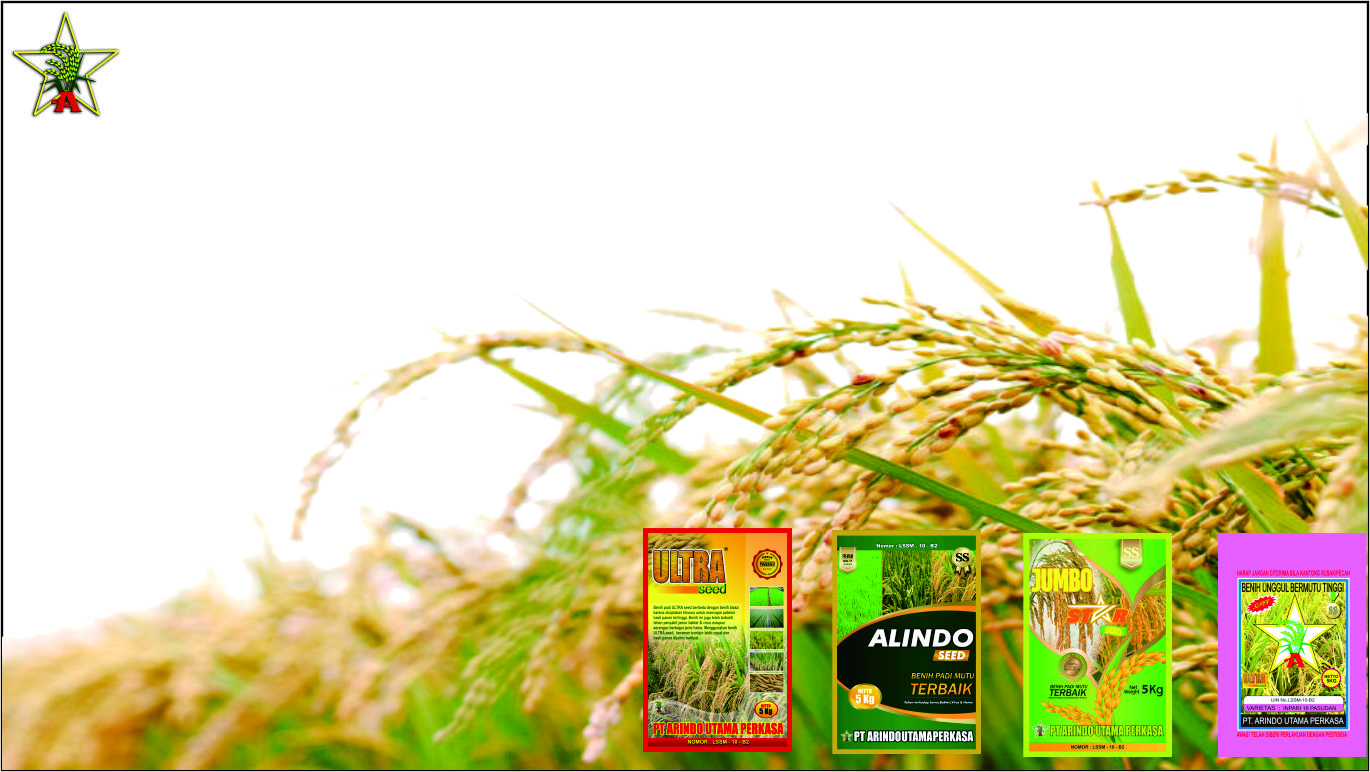
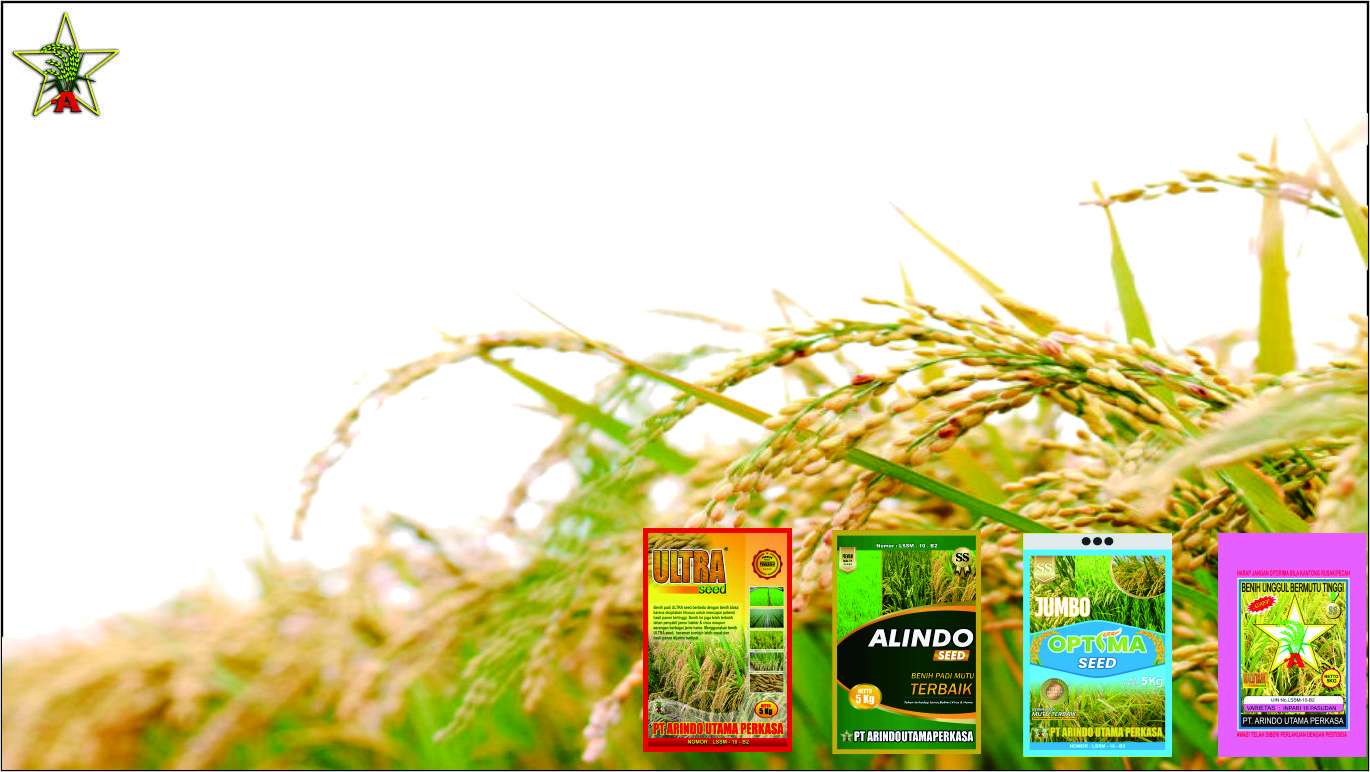
fetch:revisi gambar

Changed region(s): [[0.7358, 0.6839, 0.8584, 0.9948]]

diff --git a/resources/views/users/produk.blade.php b/resources/views/users/produk.blade.php
@@ -26,30 +26,32 @@
                                         <img class="flex-shrink-0 img-fluid border rounded" src="../../assets/img/produk-1.jpg" alt="" style="width: 80px; height: auto;">
                                         <div class="text-start ps-4">
                                             <h5 class="mb-3">BENIH BINTANG</h5>
-                                        <small class="text-truncate"><i class="far fa-calendar-alt text-primary me-2"></i>Tanggal Awal Produksi: 01 Jan, 2045</small>
+                                        <small class="text-truncate"><i class="fas fa-quote-left text-primary me-2"></i>Benih padi dengan kualitas terbaik dan teruji lolos uji sertifikasi dan ISO 9001 – 2008.</small>
+                                        <small class="text-truncate">Diawasi langsung tanpa adanya orang ketiga. Varietas Ciherang, IR-64, Inpari 30, Memberamo, Situ Bagendit , Inpari Sidenuk dan Cibago. <i class="fas fa-quote-right text-primary me-2"></i></small>
+                                        
                                         </div>
                                     </div>
-                                    <div class="col-sm-12 col-md-4 d-flex flex-column align-items-start align-items-md-end justify-content-center">
+                                    {{-- <div class="col-sm-12 col-md-4 d-flex flex-column align-items-start align-items-md-end justify-content-center">
                                         <div class="d-flex mb-3">
                                             <a class="btn btn-primary" href="">Detail Benih</a>
                                         </div>
-                                    </div>
+                                    </div> --}}
                                 </div>
                             </div>
                             <div class="job-item p-4 mb-4">
                                 <div class="row g-4">
                                     <div class="col-sm-12 col-md-8 d-flex align-items-center">
-                                        <img class="flex-shrink-0 img-fluid border rounded" src="../../assets/img/produk-2.jpg" alt="" style="width: 80px; height: auto;">
+                                        <img class="flex-shrink-0 img-fluid border rounded" src="../../assets/img/produk-5.jpg" alt="" style="width: 80px; height: auto;">
                                         <div class="text-start ps-4">
-                                            <h5 class="mb-3">BENIH JUMBO STARSEED</h5>
-                                        <small class="text-truncate"><i class="far fa-calendar-alt text-primary me-2"></i>Tanggal Awal Produksi: 01 Jan, 2045</small>
+                                            <h5 class="mb-3">BENIH JUMBO OPTIMA SEED</h5>
+                                        <small class="text-truncate"><i class="fas fa-quote-left text-primary me-2"></i>Premium benih padi dengan kualitas unggul. Sudah sertifikasi benih dan ISO 9001-2008. <i class="fas fa-quote-right text-primary me-2"></i></small>
                                         </div>
                                     </div>
-                                    <div class="col-sm-12 col-md-4 d-flex flex-column align-items-start align-items-md-end justify-content-center">
+                                    {{-- <div class="col-sm-12 col-md-4 d-flex flex-column align-items-start align-items-md-end justify-content-center">
                                         <div class="d-flex mb-3">
                                             <a class="btn btn-primary" href="">Detail Benih</a>
                                         </div>
-                                    </div>
+                                    </div> --}}
                                 </div>
                             </div>
                             <div class="job-item p-4 mb-4">
@@ -57,15 +59,15 @@
                                     <div class="col-sm-12 col-md-8 d-flex align-items-center">
                                         <img class="flex-shrink-0 img-fluid border rounded" src="../../assets/img/produk-3.jpg" alt="" style="width: 80px; height: auto;">
                                         <div class="text-start ps-4">
-                                            <h5 class="mb-3">BENIH ALINDOSEED</h5>
-                                        <small class="text-truncate"><i class="far fa-calendar-alt text-primary me-2"></i>Tanggal Awal Produksi: 01 Jan, 2045</small>
+                                            <h5 class="mb-3">BENIH ALINDO SEED</h5>
+                                        <small class="text-truncate"><i class="fas fa-quote-left text-primary me-2"></i>Premium benih padi dengan kualitas unggul. Sudah sertifikasi benih dan ISO 9001-2008. <i class="fas fa-quote-right text-primary me-2"></i></small>
                                         </div>
                                     </div>
-                                    <div class="col-sm-12 col-md-4 d-flex flex-column align-items-start align-items-md-end justify-content-center">
+                                    {{-- <div class="col-sm-12 col-md-4 d-flex flex-column align-items-start align-items-md-end justify-content-center">
                                         <div class="d-flex mb-3">
                                             <a class="btn btn-primary" href="">Detail Benih</a>
                                         </div>
-                                    </div>
+                                    </div> --}}
                                 </div>
                             </div>
                             <div class="job-item p-4 mb-4">
@@ -73,15 +75,15 @@
                                     <div class="col-sm-12 col-md-8 d-flex align-items-center">
                                         <img class="flex-shrink-0 img-fluid border rounded" src="../../assets/img/produk-4.jpg" alt="" style="width: 80px; height: auto;">
                                         <div class="text-start ps-4">
-                                            <h5 class="mb-3">BENIH ULTRASEED</h5>
-                                        <small class="text-truncate"><i class="far fa-calendar-alt text-primary me-2"></i>Tanggal Awal Produksi: 01 Jan, 2045</small>
+                                            <h5 class="mb-3">BENIH ULTRA SEED</h5>
+                                        <small class="text-truncate"><i class="fas fa-quote-left text-primary me-2"></i>Premium benih padi dengan kualitas unggul. Sudah sertifikasi benih dan ISO 9001-2008. <i class="fas fa-quote-right text-primary me-2"></i></small>
                                         </div>
                                     </div>
-                                    <div class="col-sm-12 col-md-4 d-flex flex-column align-items-start align-items-md-end justify-content-center">
+                                    {{-- <div class="col-sm-12 col-md-4 d-flex flex-column align-items-start align-items-md-end justify-content-center">
                                         <div class="d-flex mb-3">
                                             <a class="btn btn-primary" href="">Detail Benih</a>
                                         </div>
-                                    </div>
+                                    </div> --}}
                                 </div>
                             </div>
                         </div>

diff --git a/resources/views/users/detail/bintang.blade.php b/resources/views/users/detail/bintang.blade.php
@@ -1,0 +1,85 @@
+<div class="modal modal-blur fade" id="modal-bintang" tabindex="-1" role="dialog" aria-hidden="true">
+    <div class="modal-dialog modal-lg" role="document">
+        <div class="modal-content">
+            <div class="modal-header">
+                <h5 class="modal-title">Form Input Surat</h5>
+                <button type="button" class="btn-close" data-bs-dismiss="modal" aria-label="Close"></button>
+            </div>
+            <form action="{{ route('letters-edaran.store') }}" method="POST" enctype="multipart/form-data">
+                @csrf
+                <div class="modal-body">
+                    <div class="mb-3">
+                        <div class="form-label">Upload Surat</div>
+                        <input type="file" class="form-control" name="image" required>
+                    </div>
+                    <div class="mb-3">
+                        <label class="form-label">Judul</label>
+                        <input type="text" name="title" class="form-control" name="example-text-input"
+                            placeholder="Judul" required>
+                    </div>
+                    <div class="mb-3">
+                        <label for="description" class="form-label">Deskripsi <span class="form-label-description">Max 100</span></label>
+                        <textarea id="summernote" name="description"></textarea>
+                        {{-- <textarea id="summernote" class="form-control" name="description" rows="6" placeholder="Deskripsi.."></textarea> --}}
+                        <script>
+                            $('#summernote').summernote({
+                            placeholder: 'Deskripsi...',
+                            tabsize: 2,
+                            height: 120,
+                            toolbar: [
+                                ['style', ['style']],
+                                ['font', ['bold', 'underline', 'clear']],
+                                ['color', ['color']],
+                                ['para', ['ul', 'ol', 'paragraph']],
+                                ['table', ['table']],
+                                ['insert', ['link', 'picture', 'video']],
+                                ['view', ['fullscreen', 'codeview', 'help']]
+                            ],
+                            callbacks: {
+                                onInit: function() {
+                                    $('#summernote').summernote('code', $('#summernote').summernote('code').replace(/<p>/g, '').replace(/<\/p>/g, ''));
+                                }
+                            }
+                        });
+                        $('#form').submit(function() {
+                        // Cek apakah deskripsi kosong saat form disubmit
+                        if ($('#summernote').summernote('isEmpty')) {
+                            // Ambil nilai judul dan tambahkan "Surat" jika deskripsi kosong
+                            var title = $('input[name="title"]').val();
+                            var defaultDescription = 'Surat ' + title;
+
+                            // Set nilai default ke deskripsi
+                            $('#summernote').val(defaultDescription);
+                        }
+                        });
+                    
+                        // Memeriksa deskripsi saat halaman dimuat
+                        if ($('#summernote').summernote('isEmpty')) {
+                            $('#summernote').summernote('code', '');
+                        }
+                        </script>
+
+                            @error('desc')
+                            <div class="text-danger">
+                                {{ $message }}
+                            </div>
+                            @enderror
+                        </div>
+                </div>
+                <div class="modal-footer">
+                    <button type="submit" class="btn btn-outline-danger">
+                        <!-- Download SVG icon from http://tabler-icons.io/i/plus -->
+                        <svg xmlns="http://www.w3.org/2000/svg" class="bi bi-save-fill" width="16" height="16" fill="currentColor" class="bi bi-save-fill" viewBox="0 0 16 16">
+                            <path d="M8.5 1.5A1.5 1.5 0 0 1 10 0h4a2 2 0 0 1 2 2v12a2 2 0 0 1-2 2H2a2 2 0 0 1-2-2V2a2 2 0 0 1 2-2h6c-.314.418-.5.937-.5 1.5v7.793L4.854 6.646a.5.5 0 1 0-.708.708l3.5 3.5a.5.5 0 0 0 .708 0l3.5-3.5a.5.5 0 0 0-.708-.708L8.5 9.293z"/>
+                          </svg>
+                        Simpan
+                    </button>
+                </div>
+            </form>
+        </div>
+    </div>
+</div>
+
+@push('js')
+
+@endpush

diff --git a/resources/views/home.blade.php b/resources/views/home.blade.php
@@ -88,15 +88,15 @@
                         <img class="img-fluid flex-shrink-0 rounded mb-3" src="../../assets/img/bg-2.jpg" style="width: 300px; height: auto;">
                         <div class="d-flex align-items-center">
                             <div class="ps-3">
-                                <h5 class="mb-1">BENIH ULTRASEED</h5>
+                                <h5 class="mb-1">BENIH ULTRA SEED</h5>
                             </div>
                         </div>
                     </div>
                     <div class="testimonial-item bg-light rounded p-4" style="display: flex; flex-direction: column; align-items: center;">
-                        <img class="img-fluid flex-shrink-0 rounded mb-3" src="../../assets/img/bg-3.jpg" style="width: 300px; height: auto;">
+                        <img class="img-fluid flex-shrink-0 rounded mb-3" src="../../assets/img/bg-5.jpg" style="width: 300px; height: auto;">
                         <div class="d-flex align-items-center">
                             <div class="ps-3">
-                                <h5 class="mb-1">BENIH STARSEED JUMBO</h5>
+                                <h5 class="mb-1">BENIH JUMBO OPTIMA SEED</h5>
                             </div>
                         </div>
                     </div>
@@ -104,7 +104,7 @@
                         <img class="img-fluid flex-shrink-0 rounded mb-3" src="../../assets/img/bg-4.jpg" style="width: 300px; height: auto;">
                         <div class="d-flex align-items-center">
                             <div class="ps-3">
-                                <h5 class="mb-1">BENIH ALINDOSEED</h5>
+                                <h5 class="mb-1">BENIH ALINDO SEED</h5>
                             </div>
                         </div>
                     </div>
@@ -121,6 +121,7 @@
                     <div class="col-lg-6 col-sm-6 wow fadeInUp" data-wow-delay="0.1s">
                         <a class="cat-item rounded p-4 d-block mx-auto" style="margin: 0 auto; text-align:center">
                             <img src="http://arindoutamaperkasa.co.id/wp-content/uploads/2023/11/icon1-2.png" width="100px" height="auto"></i>
+                            <br>
                             <h6 class="mb-3">Dari Petani Untuk Petani</h6>
                             <p class="mb-0">Produk benih kami diambil dari areal terbaik dan didistribusikan
                             dengan proses aman sehingga terjaga kualitasnya.</p>
@@ -187,8 +188,17 @@
                 <div class="row g-5 align-items-center">
                     <div class="col-lg-4 wow fadeIn" data-wow-delay="0.1s">
                         <div class="row g-0 about-bg rounded overflow-hidden">
-                            <div class="col-4 text-start">
+                            <div class="col-6 text-start">
+                                <img class="img-fluid w-100" src="../assets/img/petani-4.jpg">
+                            </div>
+                            <div class="col-6 text-start">
                                 <img class="img-fluid w-100" src="../assets/img/petani-1.jpg">
+                            </div>
+                            <div class="col-6 text-start">
+                                <img class="img-fluid w-100" src="../assets/img/petani-3.jpg">
+                            </div>
+                            <div class="col-6 text-start">
+                                <img class="img-fluid w-100" src="../assets/img/petani-2.jpg">
                             </div>
                         </div>
                     </div>

diff --git a/resources/views/users/profile.blade.php b/resources/views/users/profile.blade.php
@@ -13,7 +13,9 @@
 @media (max-width: 768px) {
     #page-header {
         background: linear-gradient(rgba(43, 57, 64, .5), rgba(43, 57, 64, .5)), url('../../assets/img/profile.jpg') center center no-repeat;
-        background-size: contain;
+        background-size: cover;
+        height: 384px;
+        width: 100%;
     }
 }
 </style>
@@ -55,14 +57,14 @@
         {{-- <h1 class="text-center mb-3 wow fadeInUp" data-wow-delay="0.1s">Visi Misi</h1> --}}
         <div class="row g-4">
             <div class="col-lg-12 col-sm-6 wow fadeInUp d-flex flex-lg-row flex-column" style="background-color: #00B074; justify-content: space-around;" data-wow-delay="0.1s">
-                <div class="col-lg-4 col-sm-12 mb-3" style="text-align:center; margin:0 auto">
+                <div class="col-lg-6 col-sm-12 mb-3" style="text-align:center; margin:0 auto">
                     <a class="cat-item rounded p-4 d-block mx-auto">
-                        <h1 class="col-lg-12 mb-2 wow fadeInUp" style="color:white;" data-wow-delay="0.1s">VISI</h1>
+                        <h1 class="col-lg-12 mb-3 wow fadeInUp" style="color:white;" data-wow-delay="0.1s">VISI</h1>
                         <img src="http://arindoutamaperkasa.co.id/wp-content/uploads/2023/12/ico2.png" width="200px" height="auto">
                         <h6 class="mb-3" style="color:white; margin-top:40px; font-size:20px">MENJADI PRODUSEN BENIH YANG BISA MEMBERIKAN KEPUASAN KEPADA PARA PELANGGAN</h6>
                     </a>
                 </div>
-                <div class="col-lg-8 col-sm-12 mb-3" style="text-align:center; margin:0 auto">
+                <div class="col-lg-6 col-sm-12 mb-3" style="text-align:center; margin:0 auto">
                     <a class="cat-item rounded p-4 d-block mx-auto">
                         <h1 class="col-lg-12 mb-2 wow fadeInUp" style="color:white;" data-wow-delay="0.1s">MISI</h1>
                         <div class="row">

diff --git a/resources/views/users/pesan.blade.php b/resources/views/users/pesan.blade.php
@@ -37,7 +37,7 @@
                         <img class="img-fluid" src="../../assets/img/bg-2.jpg" style="width: 85%; margin-top: 15%;">
                     </div>
                     <div class="col-6 text-end">
-                        <img class="img-fluid" src="../../assets/img/bg-3.jpg" style="width: 85%;">
+                        <img class="img-fluid" src="../../assets/img/bg-5.jpg" style="width: 85%;">
                     </div>
                     <div class="col-6 text-end">
                         <img class="img-fluid w-100" src="../../assets/img/bg-4.jpg">
